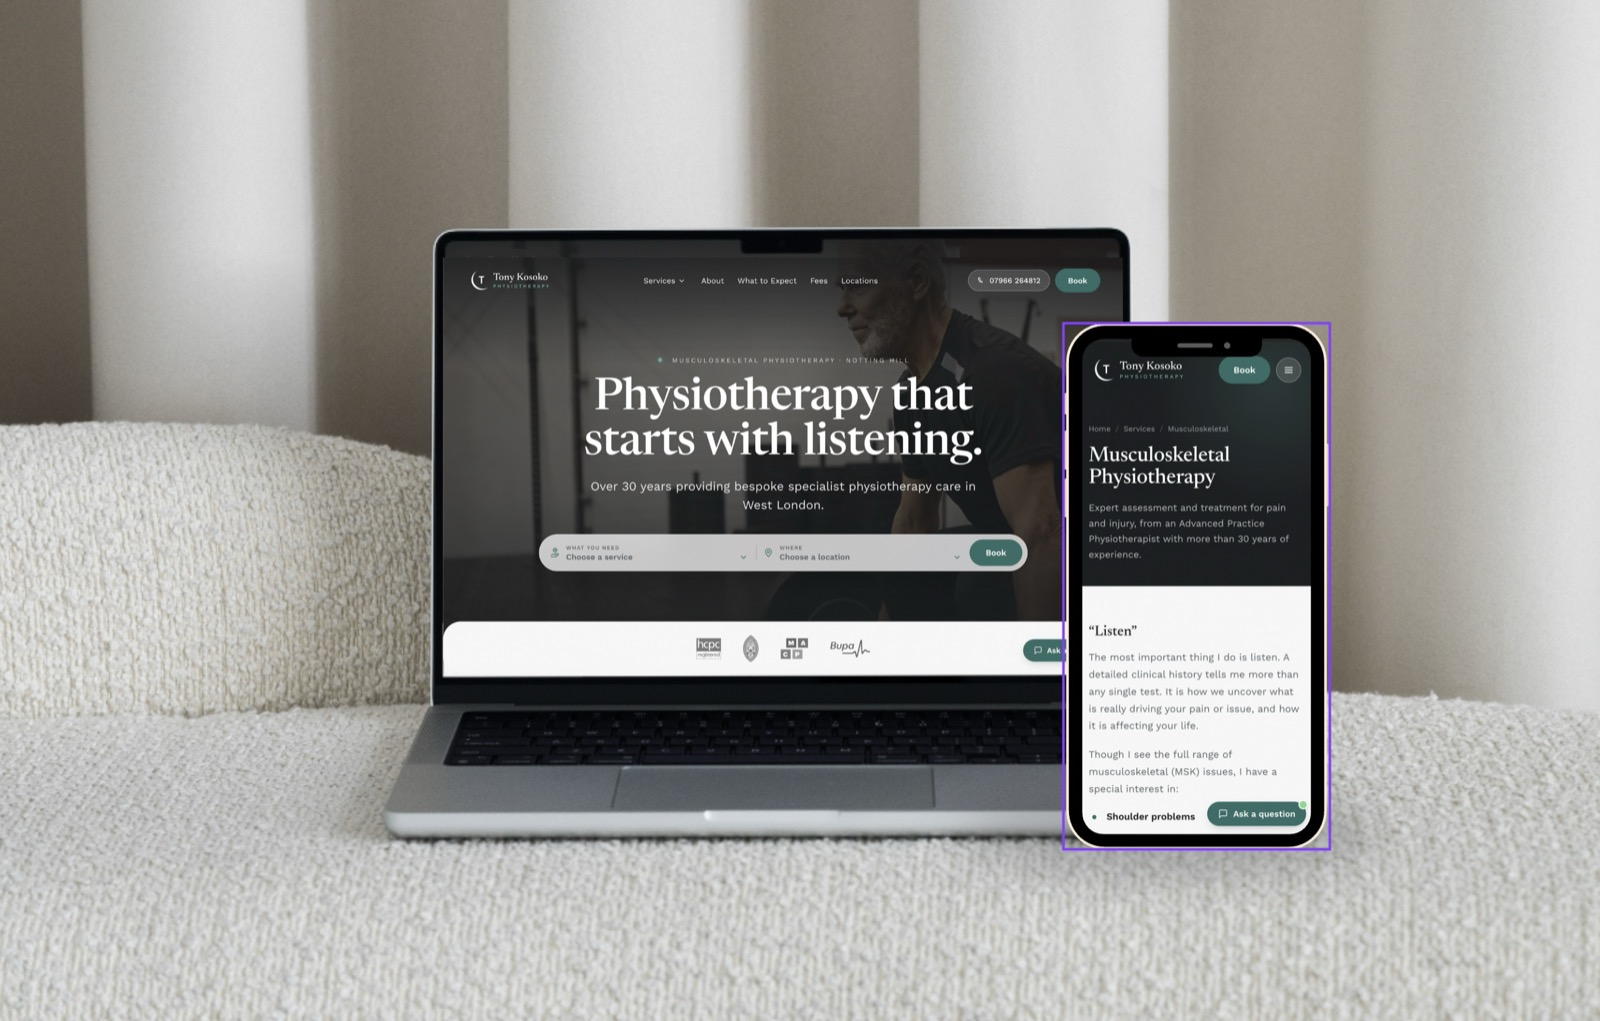
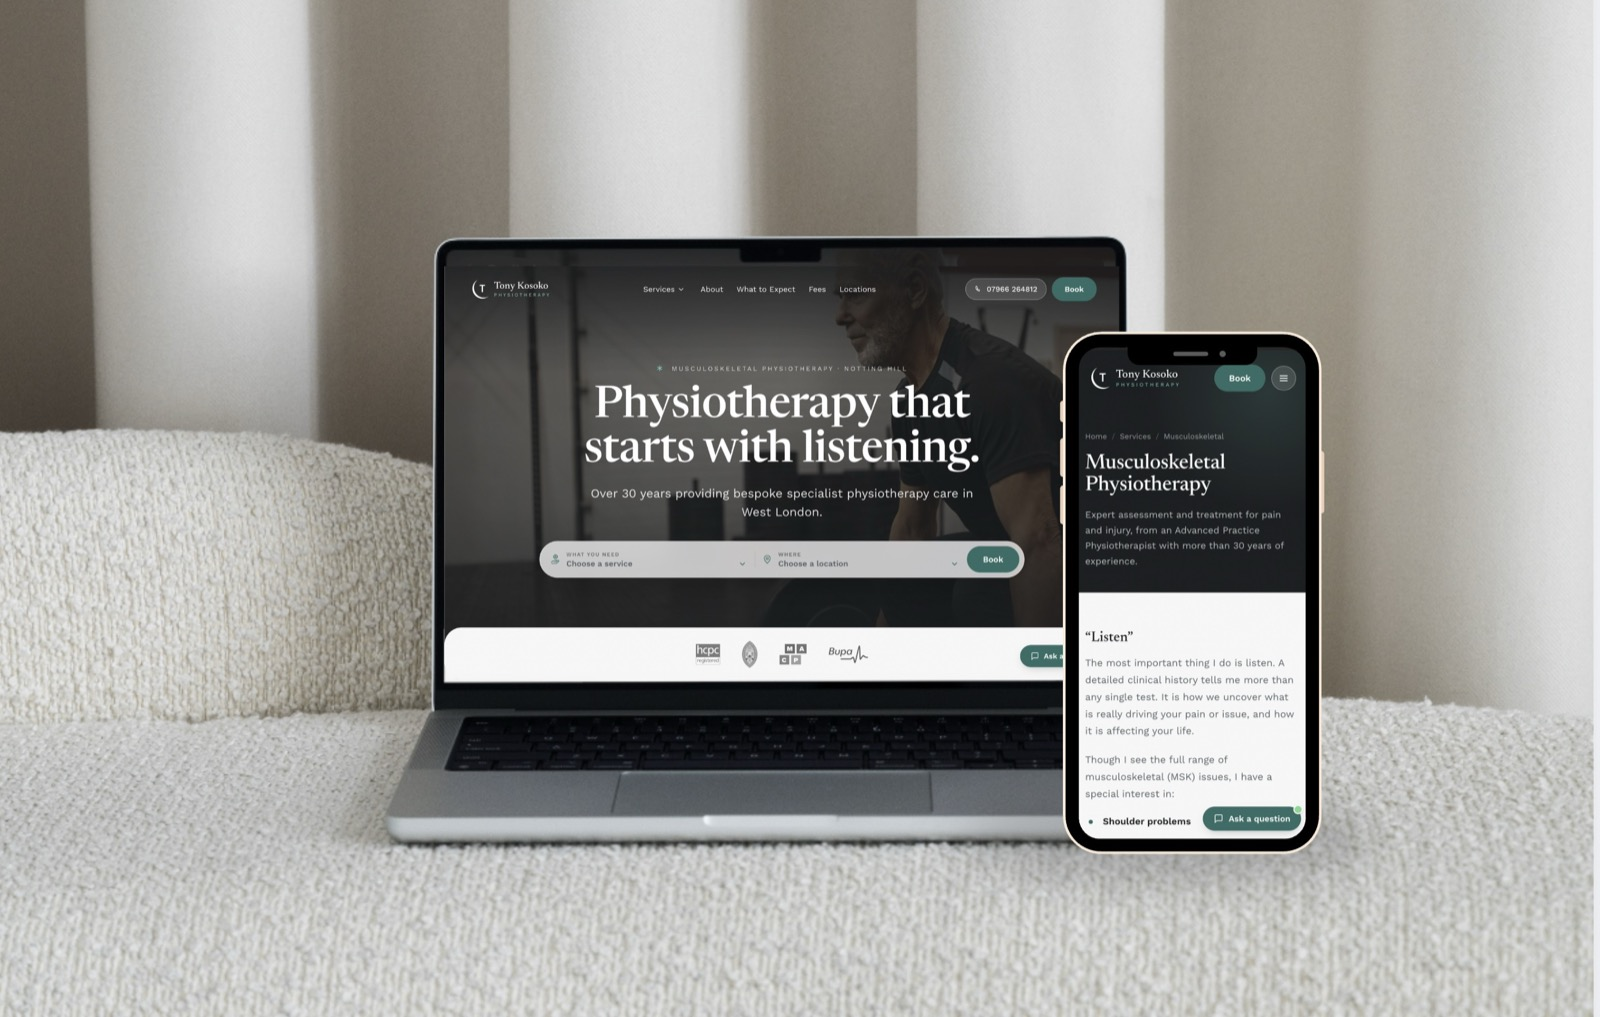
home2: Tony new 2 image, move Tony to first, add How it works section with free audit + 30 day plan + money back guarantee

diff --git a/home2/index.html b/home2/index.html
@@ -138,6 +138,27 @@ body{
 
 .get,.plans,.faq{padding:110px 0;background:var(--bg)}
 
+/* ---------- process ---------- */
+.process{padding:110px 0;background:var(--bg)}
+.steps{display:grid;grid-template-columns:repeat(3,1fr);gap:20px;margin-top:8px}
+@media(max-width:900px){.steps{grid-template-columns:1fr}}
+.stepcard{position:relative;border-radius:24px;border:1px solid var(--line);background:#0b0c0e;box-shadow:0 0 0 6px rgba(255,255,255,.02);padding:34px 30px 30px;display:flex;flex-direction:column}
+.stepcard__n{font-family:var(--mono);font-size:11px;letter-spacing:.12em;text-transform:uppercase;color:var(--fg-3);padding-bottom:18px;border-bottom:1px solid var(--line);display:flex;align-items:center;gap:9px}
+.stepcard__n b{color:var(--accent);font-weight:500}
+.stepcard h3{margin-top:26px;font-size:24px;line-height:30px;letter-spacing:-.03em;font-weight:500;max-width:16ch}
+.stepcard p{margin-top:16px;font-size:15px;line-height:23px;color:var(--fg-2)}
+.stepcard ul{margin-top:20px;display:flex;flex-direction:column;gap:9px}
+.stepcard li{display:flex;gap:10px;font-size:14px;line-height:20px;color:var(--fg-2)}
+.stepcard li i{width:18px;height:18px;border-radius:50%;background:rgba(167,139,250,.16);flex:none;position:relative;margin-top:1px}
+.stepcard li i::after{content:'';position:absolute;left:6px;top:4px;width:4px;height:7px;border:solid var(--accent);border-width:0 1.5px 1.5px 0;transform:rotate(45deg)}
+.stepcard__tag{margin-top:auto;padding-top:22px;font-family:var(--mono);font-size:11px;letter-spacing:.1em;text-transform:uppercase;color:var(--accent)}
+.guarantee{margin-top:20px;border-radius:24px;border:1px solid var(--line-2);background:linear-gradient(180deg,rgba(167,139,250,.10),rgba(167,139,250,.02));box-shadow:0 0 0 6px rgba(255,255,255,.02),0 0 60px -30px rgba(167,139,250,.5);padding:34px 36px;display:flex;align-items:center;gap:26px;flex-wrap:wrap}
+.guarantee__seal{width:60px;height:60px;border-radius:50%;border:1px solid rgba(167,139,250,.45);background:rgba(167,139,250,.10);display:flex;align-items:center;justify-content:center;flex:none}
+.guarantee__seal svg{width:26px;height:26px;color:var(--accent)}
+.guarantee__c{flex:1;min-width:260px}
+.guarantee h3{font-size:22px;line-height:28px;letter-spacing:-.03em;font-weight:500}
+.guarantee p{margin-top:8px;font-size:15px;line-height:22px;color:var(--fg-2);max-width:62ch}
+
 /* ---------- sticky deck stack ---------- */
 .stack{position:relative;margin-top:8px}
 .deck{position:sticky;top:120px;display:grid;grid-template-columns:1fr 1.22fr;height:540px;margin-bottom:48px;border-radius:28px;overflow:clip;background:#0b0c0e;border:1px solid var(--line);box-shadow:0 0 0 6px rgba(255,255,255,.02),0 50px 100px -50px rgba(0,0,0,.9);transform-origin:50% 0}
@@ -286,6 +307,7 @@ body{
   <a class="nav__brand" href="/"><img src="/SRWHITELOGO.png" alt=""/> SATURN</a>
   <div class="nav__links">
     <a href="#about">About</a>
+    <a href="#process">How it works</a>
     <a href="#services">Services</a>
     <a href="#work">Work</a>
     <a href="#pricing">Pricing</a>
@@ -300,7 +322,7 @@ body{
   </div>
 </nav>
 <div class="nav__sheet" id="sheet">
-  <a href="#about">About</a><a href="#services">Services</a><a href="#work">Work</a>
+  <a href="#about">About</a><a href="#process">How it works</a><a href="#services">Services</a><a href="#work">Work</a>
   <a href="#pricing">Pricing</a><a href="#faq">Ask</a><a href="/portal/">Client portal</a>
   <a class="nav__sheet-cta" href="/contact/">Book a call</a>
 </div>
@@ -344,6 +366,64 @@ body{
     <p class="intro__p" data-intro>Saturn Results is a strategic marketing agency based at Venospace in Exeter, working with ambitious businesses across the UK.</p>
     <p class="intro__p" data-intro>Most businesses juggle a designer, a developer, an SEO and a social freelancer, and none of them talk to each other. We are all of it, in one place, with one point of contact.</p>
     <p class="intro__p" data-intro>We start with strategy, then build the systems that carry it. A website that converts, search that compounds, social that sounds like you, and AI that works while you sleep. Every project is senior led.</p>
+  </div>
+</section>
+
+<!-- PROCESS -->
+<section class="process" id="process">
+  <div class="container container--wide">
+    <div class="section-head reveal">
+      <div>
+        <span class="chip"><span class="chip__dot"></span>How it works</span>
+        <h2 class="h2">
+          <span class="h2__a">Working with us.</span>
+          <span class="h2__b">No risk, either way.</span>
+        </h2>
+      </div>
+      <p class="section-head__p">We start by looking at what you are already running, tell you the truth about it, then prove the plan works before you are tied to anything.</p>
+    </div>
+
+    <div class="steps">
+      <article class="stepcard reveal">
+        <div class="stepcard__n"><b>Step 01</b> · Free</div>
+        <h3>A free online audit.</h3>
+        <p>We look at everything you are running right now and score it properly. No calls to sit through, no obligation.</p>
+        <ul>
+          <li><i></i>Google Business Profile</li>
+          <li><i></i>Your website</li>
+          <li><i></i>Social media</li>
+          <li><i></i>Paid ads</li>
+        </ul>
+        <div class="stepcard__tag">No cost · No risk</div>
+      </article>
+
+      <article class="stepcard reveal">
+        <div class="stepcard__n"><b>Step 02</b> · Honest</div>
+        <h3>We tell you the truth.</h3>
+        <p>You get a straight answer on where the room for improvement is, and what it is worth going after. If there is nothing worth changing, we will say so and you have lost nothing.</p>
+        <div class="stepcard__tag">Even if the answer is no</div>
+      </article>
+
+      <article class="stepcard reveal">
+        <div class="stepcard__n"><b>Step 03</b> · 30 days</div>
+        <h3>A 30 day plan, run by us.</h3>
+        <p>If it is worth doing, we build a focused 30 day marketing plan and run it ourselves. Real work, real numbers, reported back to you.</p>
+        <div class="stepcard__tag">Built and executed</div>
+      </article>
+    </div>
+
+    <div class="guarantee reveal">
+      <div class="guarantee__seal">
+        <svg viewBox="0 0 24 24" fill="none" stroke="currentColor" stroke-width="1.7"><path d="M12 3l7.5 3v5.2c0 4.4-3 8.3-7.5 9.8-4.5-1.5-7.5-5.4-7.5-9.8V6z"/><path d="M9 12l2 2 4-4"/></svg>
+      </div>
+      <div class="guarantee__c">
+        <h3>100% money back guarantee</h3>
+        <p>After the first 30 days, if you are not happy with the work, you get every penny back. We would rather carry the risk than ask you to.</p>
+      </div>
+      <a class="btn btn--light" href="/contact/">Get your free audit
+        <svg viewBox="0 0 24 24" fill="none" stroke="currentColor" stroke-width="2"><path d="M5 12h14M13 5l7 7-7 7"/></svg>
+      </a>
+    </div>
   </div>
 </section>
 
@@ -440,22 +520,22 @@ body{
     </div>
 
     <div class="work__grid">
+      <article class="wcard reveal" data-preview="https://tonykosokophysiotherapy.com/">
+        <div class="wcard__media"><span class="wcard__n">01</span><span class="wcard__tag">Healthcare</span><img src="/tony-kosoko.jpg" alt="Tony Kosoko Physiotherapy" loading="lazy"></div>
+        <div class="wcard__body"><h3>Tony Kosoko Physio</h3><p>A calm, trusted digital home for a specialist physiotherapy practice. Clear services and a booking flow built to convert enquiries into appointments.</p>
+        <div class="wcard__foot"><span class="wcard__scope">Web · Brand</span><a class="wcard__visit" href="https://tonykosokophysiotherapy.com/" target="_blank" rel="noopener">Visit<svg viewBox="0 0 24 24" fill="none" stroke="currentColor" stroke-width="2"><path d="M7 17L17 7M7 7h10v10"/></svg></a></div></div>
+      </article>
+
       <article class="wcard reveal" data-preview="https://srmarketing.live/index.html">
-        <div class="wcard__media"><span class="wcard__n">01</span><span class="wcard__tag">Wellness</span><img src="/yk-wellness.jpg" alt="YK Wellness" loading="lazy"></div>
+        <div class="wcard__media"><span class="wcard__n">02</span><span class="wcard__tag">Wellness</span><img src="/yk-wellness.jpg" alt="YK Wellness" loading="lazy"></div>
         <div class="wcard__body"><h3>YK Wellness</h3><p>A premium clinic experience. Multi page service architecture, a conversion focused booking flow and a serene, trust building brand identity.</p>
         <div class="wcard__foot"><span class="wcard__scope">Brand · Web · SEO</span><a class="wcard__visit" href="https://srmarketing.live/index.html" target="_blank" rel="noopener">Visit<svg viewBox="0 0 24 24" fill="none" stroke="currentColor" stroke-width="2"><path d="M7 17L17 7M7 7h10v10"/></svg></a></div></div>
       </article>
 
       <article class="wcard reveal" data-preview="https://saturnresults.co.uk/raglouk-demo/">
-        <div class="wcard__media"><span class="wcard__n">02</span><span class="wcard__tag">Apparel</span><img src="/raglo-uk.jpg" alt="Raglo UK" loading="lazy"></div>
+        <div class="wcard__media"><span class="wcard__n">03</span><span class="wcard__tag">Apparel</span><img src="/raglo-uk.jpg" alt="Raglo UK" loading="lazy"></div>
         <div class="wcard__body"><h3>Raglo UK</h3><p>A confident, modern brand presence built for an ambitious UK label. Editorial product layouts and a buying experience that feels effortless.</p>
         <div class="wcard__foot"><span class="wcard__scope">Web · Brand</span><a class="wcard__visit" href="https://saturnresults.co.uk/raglouk-demo/" target="_blank" rel="noopener">Visit<svg viewBox="0 0 24 24" fill="none" stroke="currentColor" stroke-width="2"><path d="M7 17L17 7M7 7h10v10"/></svg></a></div></div>
-      </article>
-
-      <article class="wcard reveal" data-preview="https://tonykosokophysiotherapy.com/">
-        <div class="wcard__media"><span class="wcard__n">03</span><span class="wcard__tag">Healthcare</span><img src="/tony-kosoko.jpg" alt="Tony Kosoko Physiotherapy" loading="lazy"></div>
-        <div class="wcard__body"><h3>Tony Kosoko Physio</h3><p>A calm, trusted digital home for a specialist physiotherapy practice. Clear services and a booking flow built to convert enquiries into appointments.</p>
-        <div class="wcard__foot"><span class="wcard__scope">Web · Brand</span><a class="wcard__visit" href="https://tonykosokophysiotherapy.com/" target="_blank" rel="noopener">Visit<svg viewBox="0 0 24 24" fill="none" stroke="currentColor" stroke-width="2"><path d="M7 17L17 7M7 7h10v10"/></svg></a></div></div>
       </article>
 
       <article class="wcard reveal" data-preview="https://www.alderneyweek.com/">
@@ -653,7 +733,7 @@ body{
       </div>
       <div class="footer__col">
         <h5>Agency</h5>
-        <a href="#about">About</a><a href="#services">Services</a><a href="#work">Work</a><a href="#pricing">Pricing</a>
+        <a href="#about">About</a><a href="#process">How it works</a><a href="#services">Services</a><a href="#work">Work</a><a href="#pricing">Pricing</a>
       </div>
       <div class="footer__col">
         <h5>Clients</h5>
